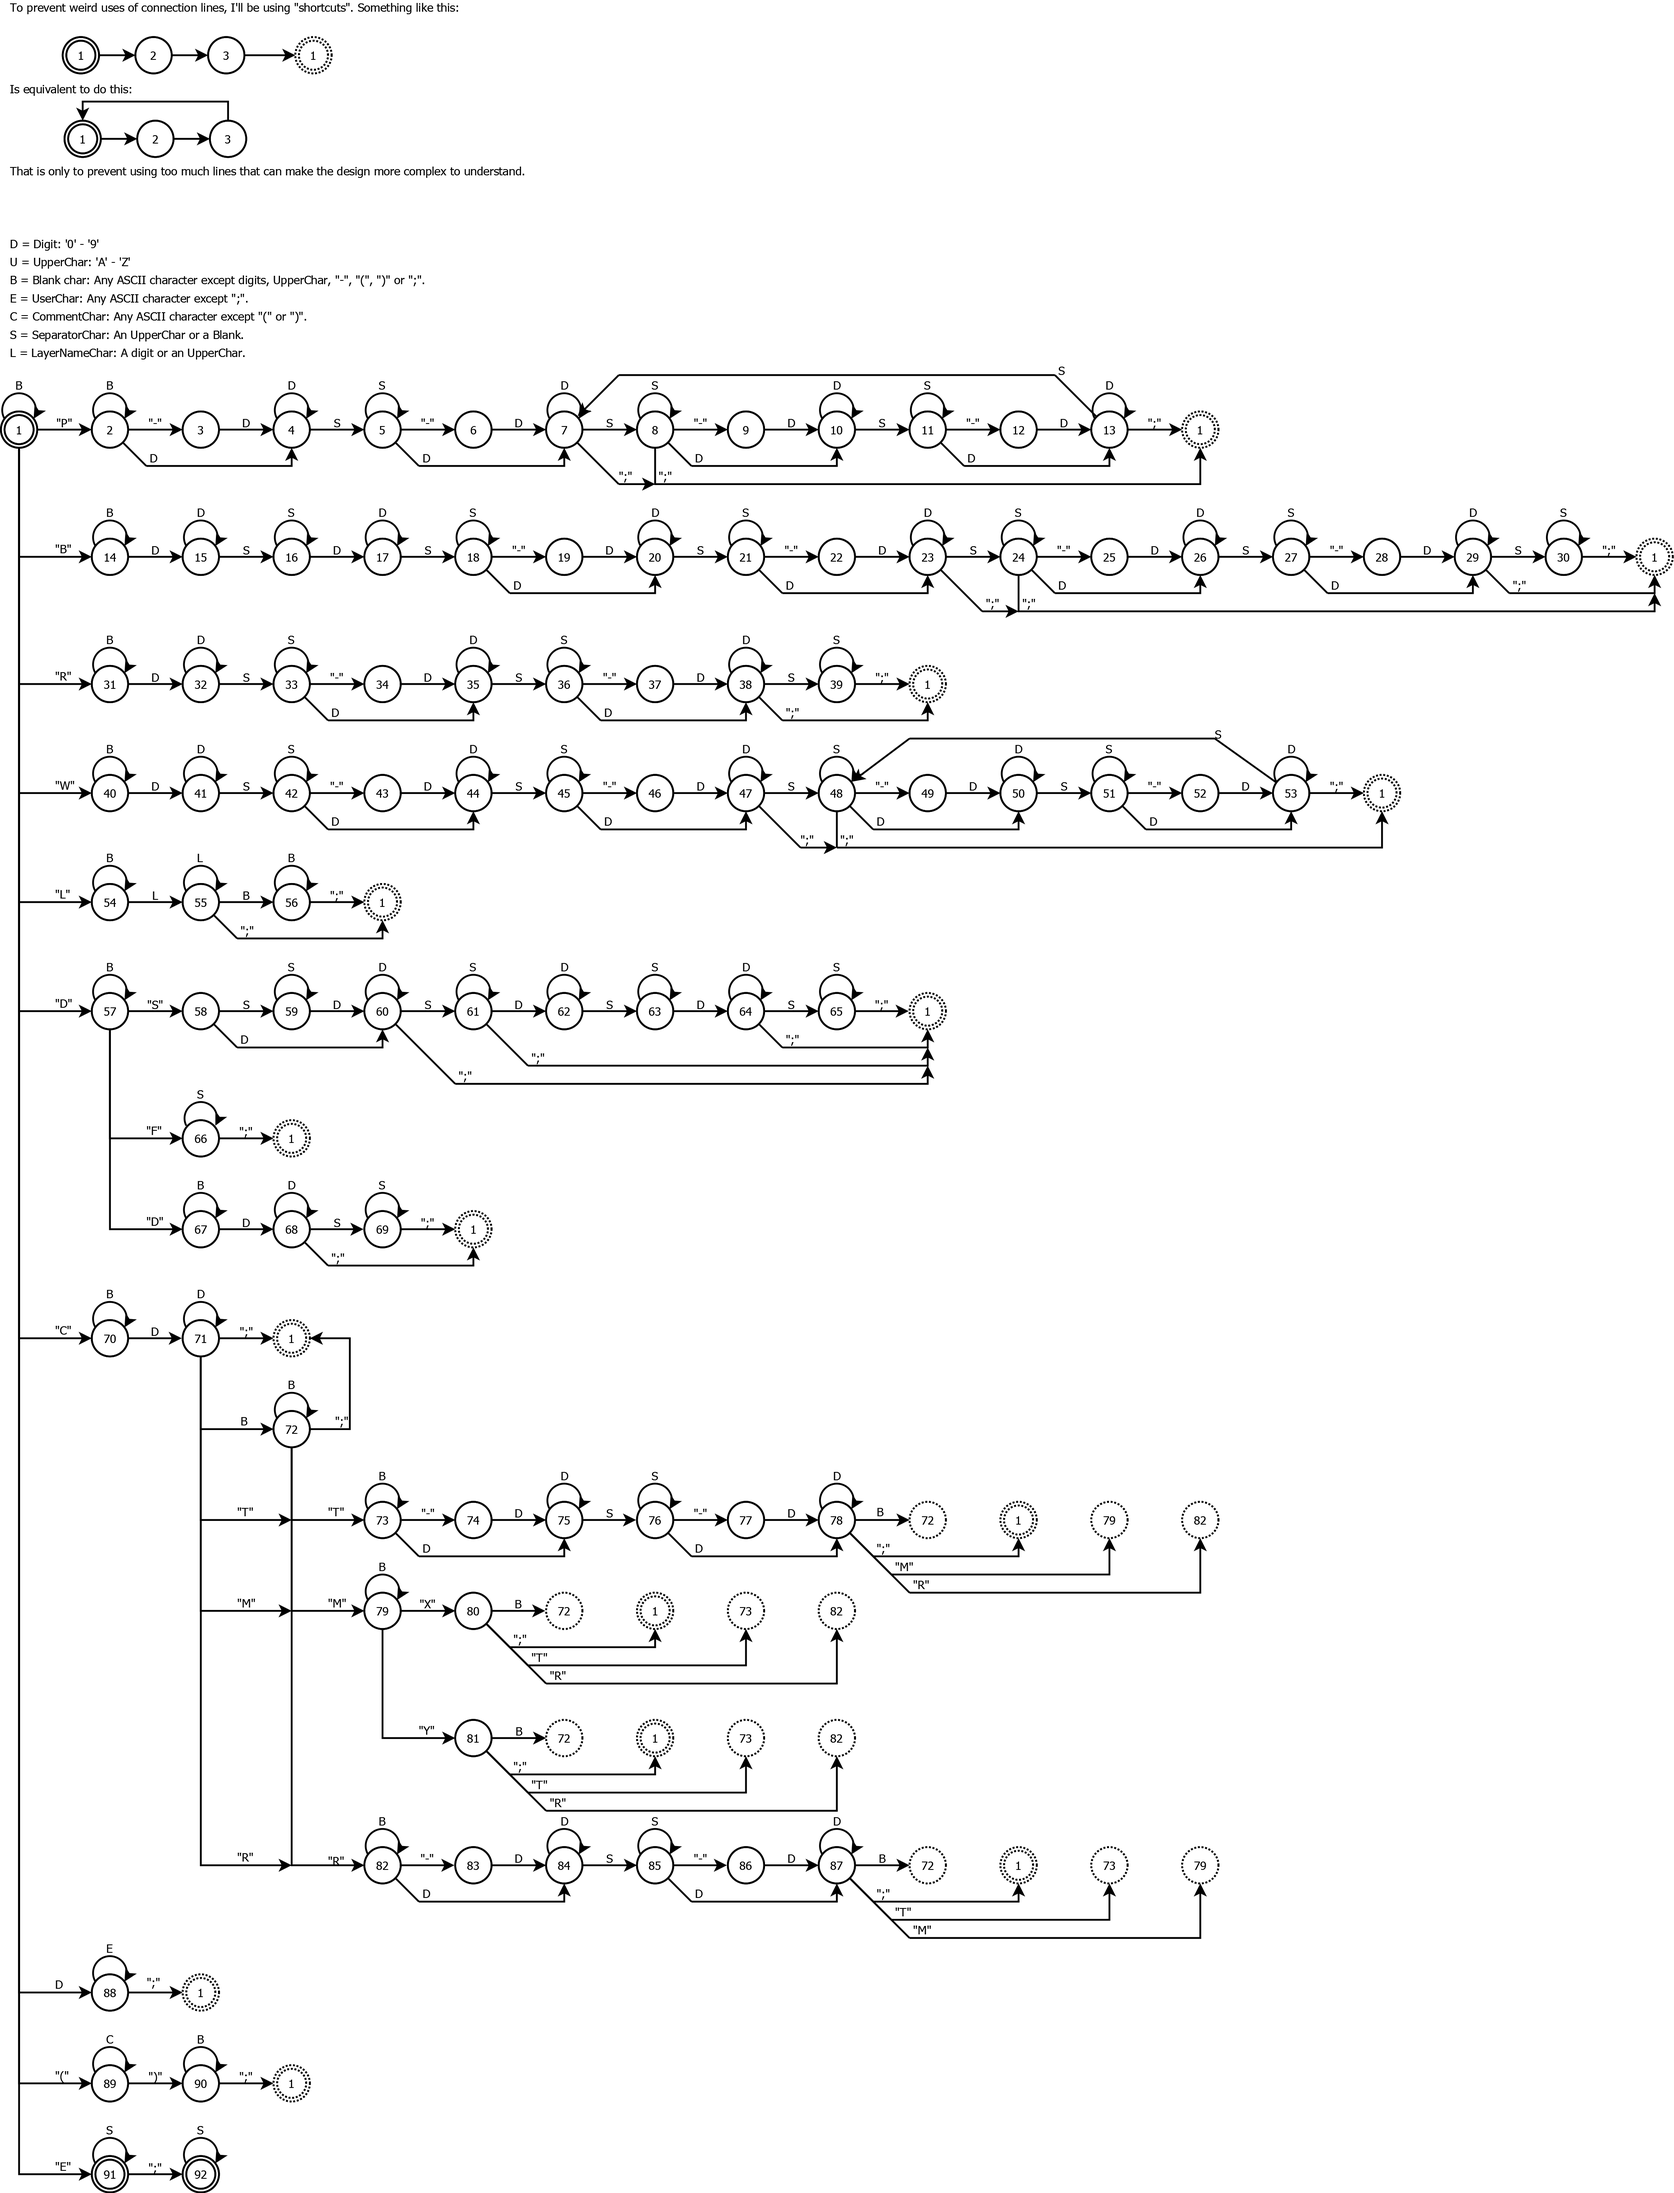
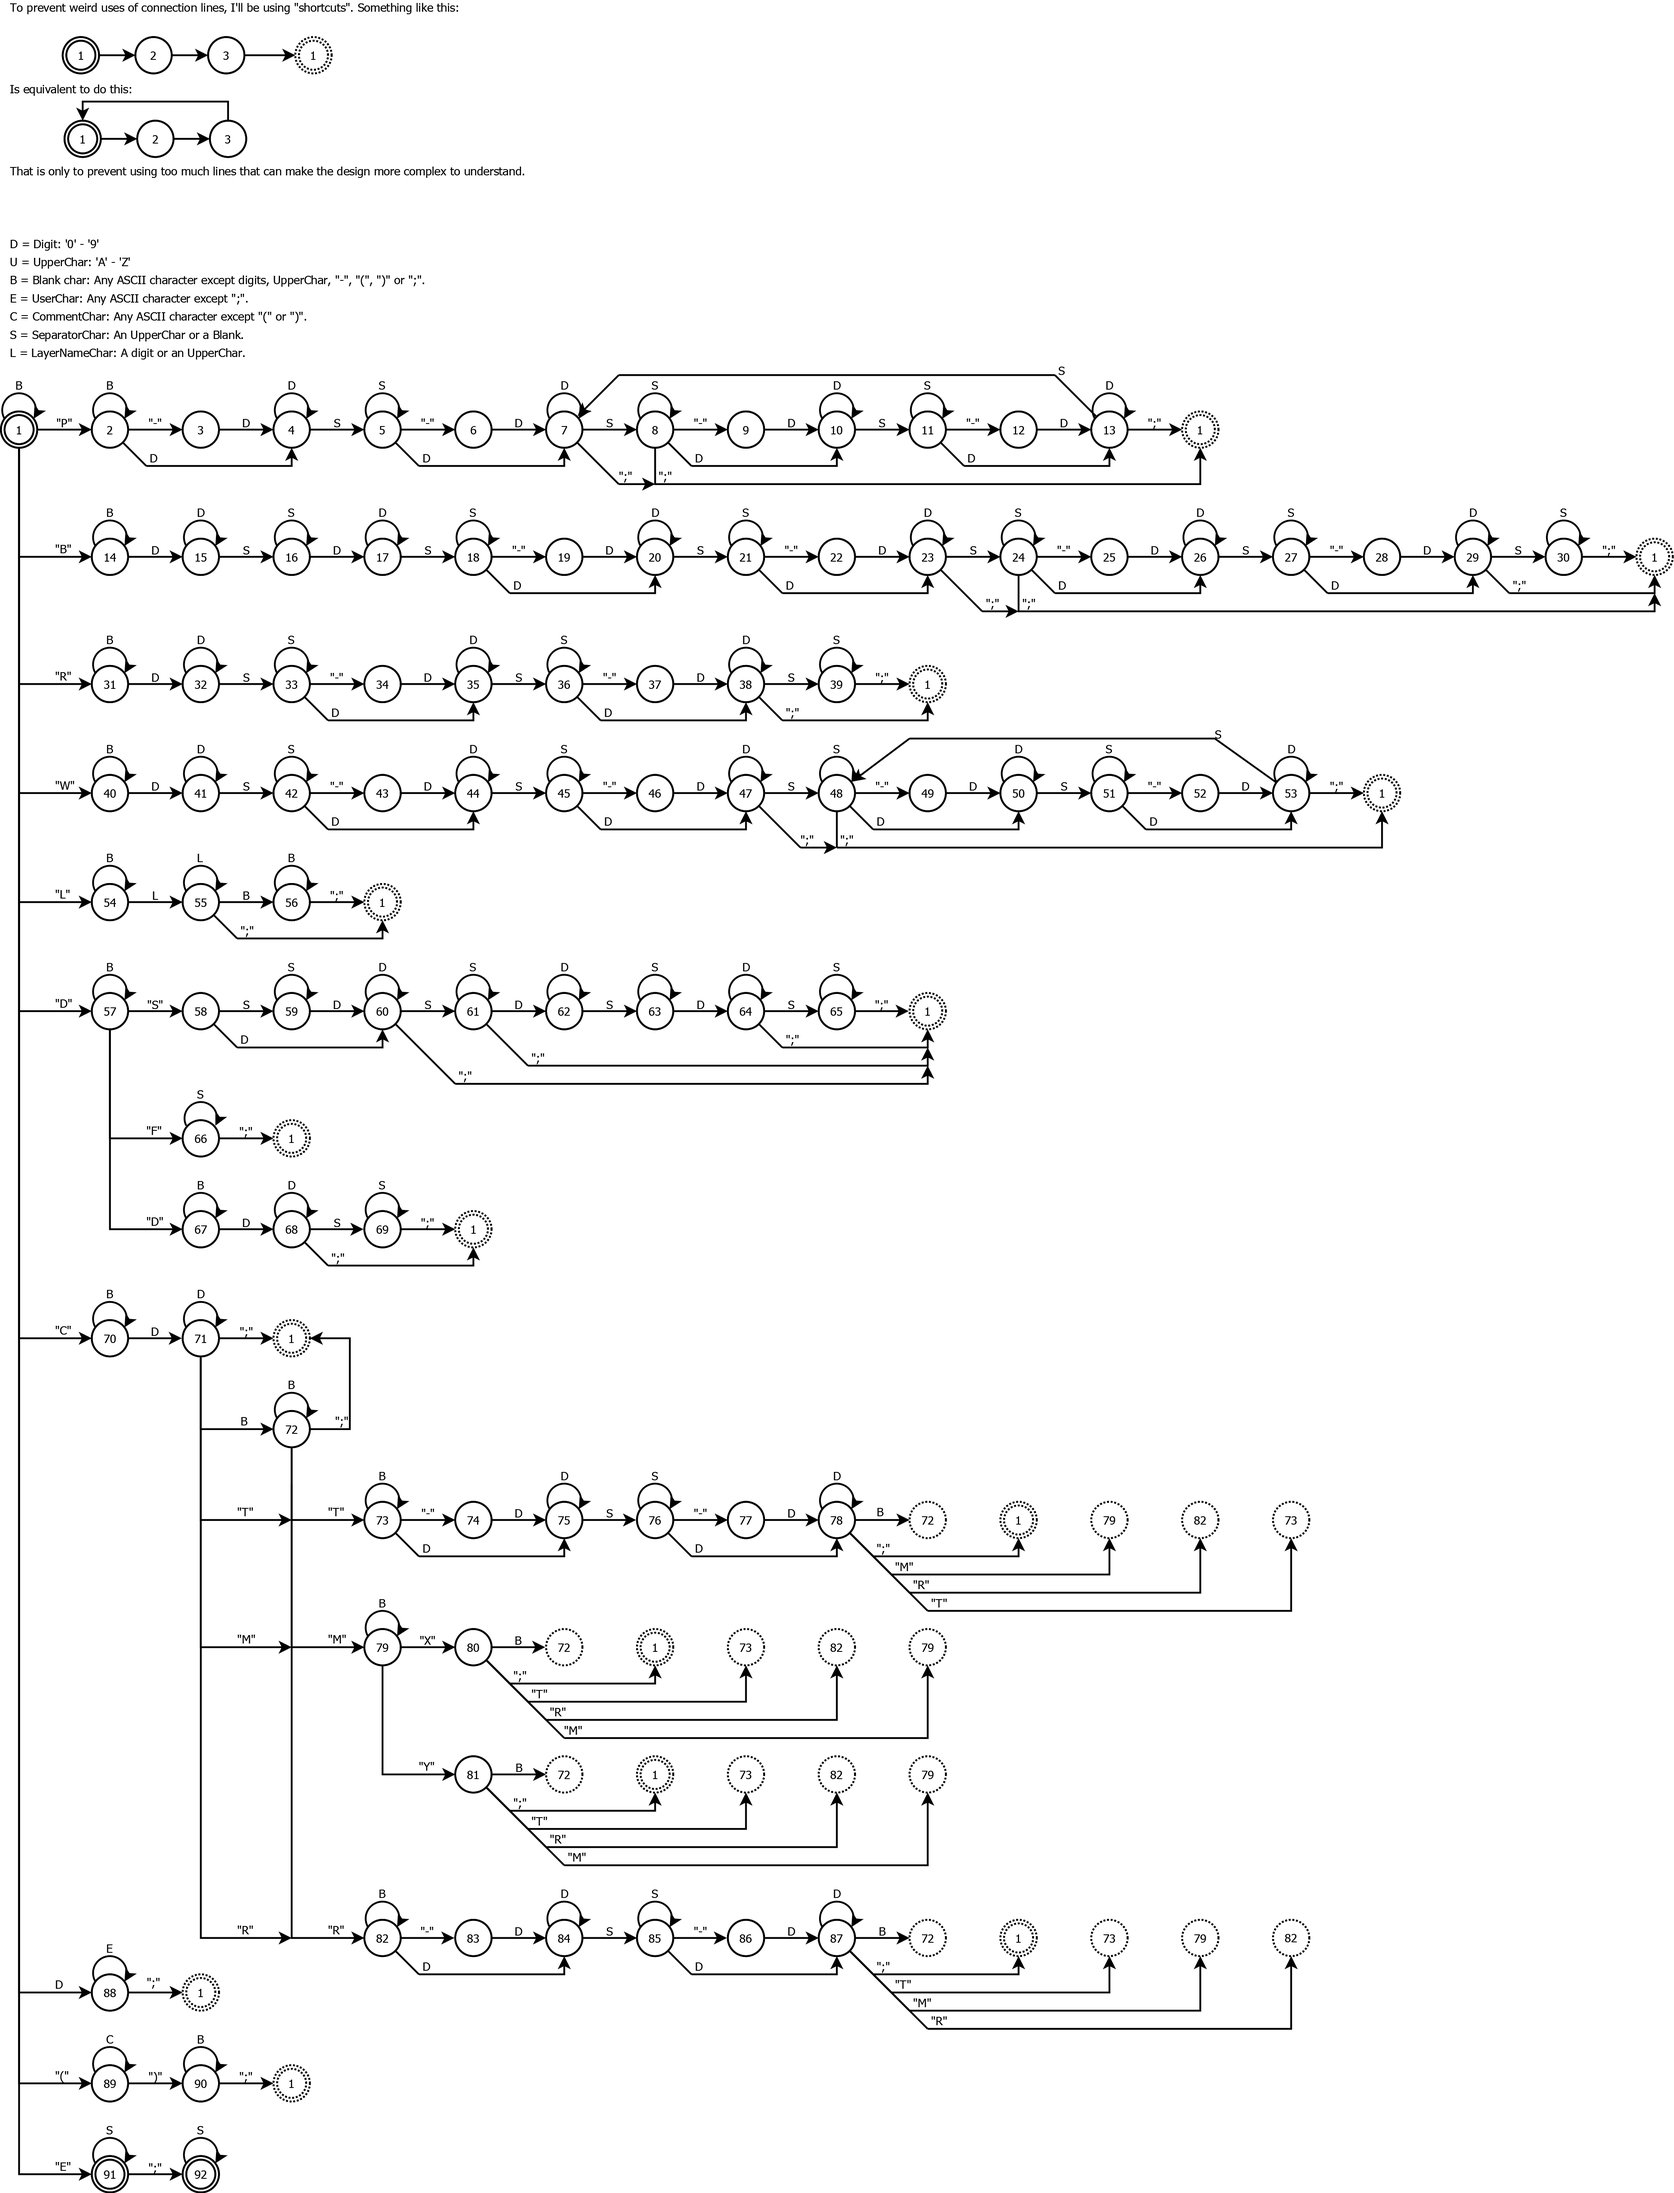
- Fixed finite state machine. Now, there is possible to set repeated transformations.   Something like this:
... MXMXMX ...

  Does not has much sense (it mirrors the called definition three times in it's X
  coordinates, has the same effect than mirroring only once), but, the standard
  does NOT specify something about this. So, maybe it is useless, but, since the
  format doesn't prohibit it, such option is added.

  The affected states of the FSM are: 78, 80, 81 and 87.

- Updated Dia and PNG files related to the CIF finite state machine.

- Fixed error in the [] operator in the CIFFSM class files. The error was
  related to the comment commands. Now, the comments are correctly validated.

diff --git a/opencif/finitestatemachine/ciffsm.cc b/opencif/finitestatemachine/ciffsm.cc
@@ -60,6 +60,7 @@ OpenCIF::CIFFSM::CIFFSM ( void )
    add ( 1 , "C" , 70 );
    add ( 1 , Digit , 88 );
    add ( 1 , "(" , 89 );
+   add ( 1 , "E" , 91 );
    
    /*
     * POLYGON STATES
@@ -352,6 +353,7 @@ OpenCIF::CIFFSM::CIFFSM ( void )
    add ( 78 , ";" , 1 );
    add ( 78 , "M" , 79 );
    add ( 78 , "R" , 82 );
+   add ( 78 , "T" , 73 );
    
    add ( 79 , BlankChar , 79 );
    add ( 79 , "X" , 80 );
@@ -361,11 +363,13 @@ OpenCIF::CIFFSM::CIFFSM ( void )
    add ( 80 , ";" , 1 );
    add ( 80 , "T" , 73 );
    add ( 80 , "R" , 82 );
+   add ( 80 , "M" , 79 );
    
    add ( 81 , BlankChar , 72 );
    add ( 81 , ";" , 1 );
    add ( 81 , "T" , 73 );
    add ( 81 , "R" , 82 );
+   add ( 81 , "M" , 79 );
    
    add ( 82 , BlankChar , 82 );
    add ( 82 , "-" , 83 );
@@ -387,6 +391,7 @@ OpenCIF::CIFFSM::CIFFSM ( void )
    add ( 87 , ";" , 1 );
    add ( 87 , "T" , 73 );
    add ( 87 , "M" , 79 );
+   add ( 87 , "R" , 82 );
    
    /*
     * DELETE COMMAND STATES
@@ -477,11 +482,8 @@ void OpenCIF::CIFFSM::add ( const int& input_state , const OpenCIF::CIFFSM::Tran
       case CommentChar:
          for ( int i = 0; i < 256; i++ )
          {
-            if ( !( i == '(' || i == '(' ) )
-            {
-               tmp = (char)i;
-               add ( input_state , tmp , output_state );
-            }
+            tmp = (char)i;
+            add ( input_state , tmp , output_state );
          }
          break;
          
@@ -571,19 +573,26 @@ int OpenCIF::CIFFSM::operator[] ( const char& input_char )
          parentheses++;
          new_state = currentState ();
       }
-      else if ( input_char == ')' && parentheses > 1 )
+      else if ( input_char == ')' )
       {
-         parentheses--;
-         new_state = currentState ();
-      }
-      else if ( input_char == ')' && parentheses == 1 )
-      {
-         parentheses = 0;
-         new_state = FiniteStateMachine::operator[] ( input_char );
+         if ( parentheses > 1 )
+         {
+            parentheses--;
+            new_state = currentState ();
+         }
+         else if ( parentheses == 1 )
+         {
+            parentheses = 0;
+            new_state = FiniteStateMachine::operator[] ( input_char );
+         }
+         else
+         {
+            new_state = -1;
+         }
       }
       else
       {
-         new_state = -1;
+         new_state = FiniteStateMachine::operator[] ( input_char );
       }
    }
    else

diff --git a/opencif/file/file.cc b/opencif/file/file.cc
@@ -171,6 +171,7 @@ OpenCIF::File::LoadStatus OpenCIF::File::validateSintax ( void )
    int jump_state = 1; // By default, start in 1
    int previous_state; // Previous state.
    char input_char;
+   char previous_char;
    
    fsm = new OpenCIF::CIFFSM ();
    
@@ -179,6 +180,7 @@ OpenCIF::File::LoadStatus OpenCIF::File::validateSintax ( void )
    
    while ( !file_input.eof () && jump_state != -1 )
    {
+      previous_char = input_char;
       input_char = file_input.get ();
       
       if ( !file_input.eof () )
@@ -193,19 +195,29 @@ OpenCIF::File::LoadStatus OpenCIF::File::validateSintax ( void )
    
    if ( jump_state == -1 )
    {
+      std::string tmp;
+      
       // There is an invalid input.
       file_messages.push_back ( std::string ( "File:validateSintax:Error: Error detected when validating contents of input file." ) );
+      
       oss << previous_state;
+      
       file_messages.push_back ( std::string ( "                           State: " ) + oss.str () );
+      
       oss.str ( std::string ( "" ) );
-      oss << input_char;
-      file_messages.push_back ( std::string ( "                           Input char: " ) +
-                                oss.str () +
-                                std::string ( " (ASCII=" ) +
+      oss << (char)previous_char;
+      
+      tmp = tmp;
+      
+      file_messages.push_back ( std::string ( "                           Input char: \"" ) +
+                                tmp +
+                                std::string ( "\" (ASCII=" ) +
                                 (
-                                   ( oss.str ( std::string ( "" ) ) , oss << (int)input_char ) ,
+                                   ( oss.str ( std::string ( "" ) ) , oss << (int)previous_char ) ,
                                    oss.str ()
-                                ) );
+                                ) +
+                                std::string ( ")" )
+                              );
       
       return ( IncorrectInputFile );
    }
